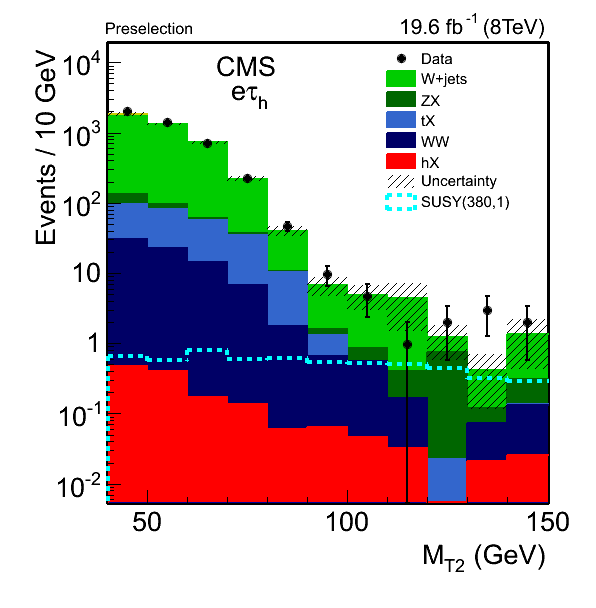
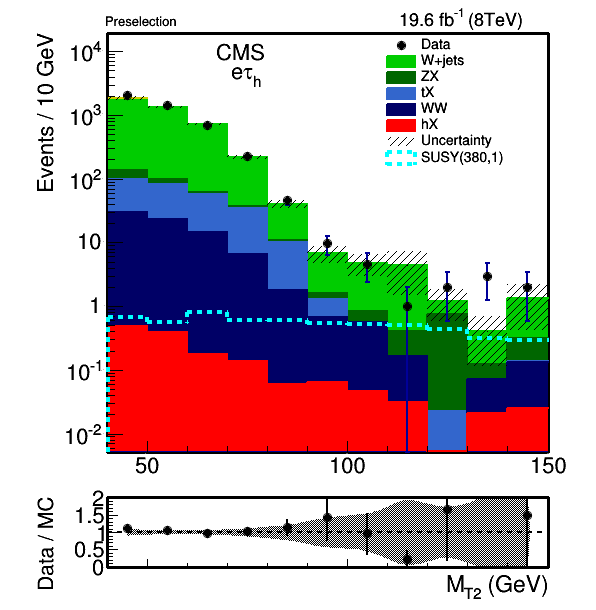
ratio plots are added to eleTau and muTau MT2 figures at preselection level (fig2). FR comments

diff --git a/papers/SUS-14-022/trunk/SelectionMuTau/MT2_mutau.C b/papers/SUS-14-022/trunk/SelectionMuTau/MT2_mutau.C
@@ -3,22 +3,42 @@
 //=========  (Mon Jul 18 15:03:36 2016) by ROOT version5.34/03
    TCanvas *MT2_Ratio_Preselection_unBlinded = new TCanvas("MT2_Ratio_Preselection_unBlinded", "",294,136,600,634);
    gStyle->SetOptFit(1);
-   MT2_Ratio_Preselection_unBlinded->Range(13.31066,-3.83404,161.9728,5.159975);
-   MT2_Ratio_Preselection_unBlinded->SetFillColor(0);
-   MT2_Ratio_Preselection_unBlinded->SetBorderMode(0);
-   MT2_Ratio_Preselection_unBlinded->SetBorderSize(2);
-   MT2_Ratio_Preselection_unBlinded->SetLogy();
-   MT2_Ratio_Preselection_unBlinded->SetLeftMargin(0.1795302);
-   MT2_Ratio_Preselection_unBlinded->SetRightMargin(0.08053691);
-   MT2_Ratio_Preselection_unBlinded->SetTopMargin(0.06976745);
-   MT2_Ratio_Preselection_unBlinded->SetBottomMargin(0.1710963);
-   MT2_Ratio_Preselection_unBlinded->SetFrameLineWidth(3);
-   MT2_Ratio_Preselection_unBlinded->SetFrameBorderMode(0);
-   MT2_Ratio_Preselection_unBlinded->SetFrameBorderSize(0);
-   MT2_Ratio_Preselection_unBlinded->SetFrameLineWidth(3);
-   MT2_Ratio_Preselection_unBlinded->SetFrameBorderMode(0);
-   MT2_Ratio_Preselection_unBlinded->SetFrameBorderSize(0);
-   
+   // MT2_Ratio_Preselection_unBlinded->Range(13.31066,-3.83404,161.9728,5.159975);
+   // MT2_Ratio_Preselection_unBlinded->SetFillColor(0);
+   // MT2_Ratio_Preselection_unBlinded->SetBorderMode(0);
+   // MT2_Ratio_Preselection_unBlinded->SetBorderSize(2);
+   // MT2_Ratio_Preselection_unBlinded->SetLogy();
+   // MT2_Ratio_Preselection_unBlinded->SetLeftMargin(0.1795302);
+   // MT2_Ratio_Preselection_unBlinded->SetRightMargin(0.08053691);
+   // MT2_Ratio_Preselection_unBlinded->SetTopMargin(0.06976745);
+   // MT2_Ratio_Preselection_unBlinded->SetBottomMargin(0.1710963);
+   // MT2_Ratio_Preselection_unBlinded->SetFrameLineWidth(3);
+   // MT2_Ratio_Preselection_unBlinded->SetFrameBorderMode(0);
+   // MT2_Ratio_Preselection_unBlinded->SetFrameBorderSize(0);
+   // MT2_Ratio_Preselection_unBlinded->SetFrameLineWidth(3);
+   // MT2_Ratio_Preselection_unBlinded->SetFrameBorderMode(0);
+   // MT2_Ratio_Preselection_unBlinded->SetFrameBorderSize(0);
+
+   // ------------>Primitives in pad: muTau_log_comp_overlay_plotpad
+   TPad *muTau_log_comp_overlay_plotpad = new TPad("muTau_log_comp_overlay_plotpad", "Pad containing the overlay plot",0,0.22,1,1);
+   muTau_log_comp_overlay_plotpad->Draw();
+   muTau_log_comp_overlay_plotpad->cd();
+   muTau_log_comp_overlay_plotpad->Range(13.31066,-3.83404,161.9728,5.159975);
+   muTau_log_comp_overlay_plotpad->SetFillColor(0);
+   muTau_log_comp_overlay_plotpad->SetBorderMode(0);
+   muTau_log_comp_overlay_plotpad->SetBorderSize(2);
+   muTau_log_comp_overlay_plotpad->SetLogy();
+   muTau_log_comp_overlay_plotpad->SetLeftMargin(0.1795302);
+   muTau_log_comp_overlay_plotpad->SetRightMargin(0.08053691);
+   muTau_log_comp_overlay_plotpad->SetTopMargin(0.06976745);
+   muTau_log_comp_overlay_plotpad->SetBottomMargin(0.05) ; //0.1710963);
+   muTau_log_comp_overlay_plotpad->SetFrameLineWidth(3);
+   muTau_log_comp_overlay_plotpad->SetFrameBorderMode(0);
+   muTau_log_comp_overlay_plotpad->SetFrameBorderSize(0);
+   muTau_log_comp_overlay_plotpad->SetFrameLineWidth(3);
+   muTau_log_comp_overlay_plotpad->SetFrameBorderMode(0);
+   muTau_log_comp_overlay_plotpad->SetFrameBorderSize(0);
+    
    THStack *h_stack = new THStack();
    h_stack->SetName("h_stack");
    h_stack->SetTitle("");
@@ -35,7 +55,7 @@
    ci = TColor::GetColor("#000099");
    h_stack_stack_1_stack_2_stack_1_stack_1_stack_1_stack_1_stack_1_stack_1_stack_1_stack_1->SetLineColor(ci);
    h_stack_stack_1_stack_2_stack_1_stack_1_stack_1_stack_1_stack_1_stack_1_stack_1_stack_1->SetLineWidth(2);
-   h_stack_stack_1_stack_2_stack_1_stack_1_stack_1_stack_1_stack_1_stack_1_stack_1_stack_1->GetXaxis()->SetTitle("M_{T2} (GeV)");
+   h_stack_stack_1_stack_2_stack_1_stack_1_stack_1_stack_1_stack_1_stack_1_stack_1_stack_1->GetXaxis()->SetTitle(); //"M_{T2} (GeV)");
    h_stack_stack_1_stack_2_stack_1_stack_1_stack_1_stack_1_stack_1_stack_1_stack_1_stack_1->GetXaxis()->SetNdivisions(505);
    h_stack_stack_1_stack_2_stack_1_stack_1_stack_1_stack_1_stack_1_stack_1_stack_1_stack_1->GetXaxis()->SetLabelFont(42);
    h_stack_stack_1_stack_2_stack_1_stack_1_stack_1_stack_1_stack_1_stack_1_stack_1_stack_1->GetXaxis()->SetLabelSize(0.05);
@@ -421,8 +441,8 @@
    h2_copy->SetEntries(7513);
    h2_copy->SetStats(0);
 
-   ci = TColor::GetColor("#000099");
-   h2_copy->SetLineColor(ci);
+   //ci = kColor;
+   h2_copy->SetLineColor(kBlack);
    h2_copy->SetLineWidth(2);
    h2_copy->SetMarkerStyle(20);
    h2_copy->GetXaxis()->SetNdivisions(505);
@@ -604,6 +624,94 @@ tex->SetNDC();
    entry->SetMarkerStyle(21);
    entry->SetMarkerSize(1);
    leg->Draw();
+
+   MT2_Ratio_Preselection_unBlinded->cd();
+   TPad* muTau_log_comp_overlay_ratiopad = new TPad("muTau_log_comp_overlay_ratiopad", "Pad containing the ratio",0,0.0 , 1.0 , 0.2);
+   muTau_log_comp_overlay_ratiopad->Draw();
+   muTau_log_comp_overlay_ratiopad->cd();
+   
+   muTau_log_comp_overlay_ratiopad->Range(21.42008,-0.8571431,160.4254,2.214286);
+   muTau_log_comp_overlay_ratiopad->SetFillColor(0);
+   muTau_log_comp_overlay_ratiopad->SetBorderMode(0);
+   muTau_log_comp_overlay_ratiopad->SetBorderSize(2);
+   muTau_log_comp_overlay_ratiopad->SetLeftMargin(0.1795302);
+   muTau_log_comp_overlay_ratiopad->SetRightMargin(0.08053691);
+   muTau_log_comp_overlay_ratiopad->SetTopMargin(0.08) ; //6976745);
+   muTau_log_comp_overlay_ratiopad->SetBottomMargin(0.35 );//1710963);
+   muTau_log_comp_overlay_ratiopad->SetFrameLineWidth(3);
+   muTau_log_comp_overlay_ratiopad->SetFrameBorderMode(0);
+   muTau_log_comp_overlay_ratiopad->SetFrameBorderSize(0);
+   muTau_log_comp_overlay_ratiopad->SetFrameLineWidth(3);
+   muTau_log_comp_overlay_ratiopad->SetFrameBorderMode(0);
+   muTau_log_comp_overlay_ratiopad->SetFrameBorderSize(0);
+
+   TH1D* hOne = h_stack->GetStack()->Last()->Clone("hOne");
+   //hOne->Sumw2();
+   TH1D *hMC = h_stack->GetStack()->Last()->Clone("hMC");
+   hOne->Divide( hMC );
+   hOne->SetMinimum(0);
+   hOne->SetMaximum(2);
+   //hOne->SetEntries(31.4133);
+   hOne->SetStats(0);
+   hOne->SetFillColor(1);
+   hOne->SetFillStyle(3001);
+   hOne->SetLineWidth(2);
+   hOne->SetLineColor( kBlack );
+   hOne->SetMarkerColor( kBlack );
+   hOne->GetXaxis()->SetTitle("M_{T2} (GeV)");
+   hOne->GetXaxis()->SetNdivisions(505);
+   hOne->GetXaxis()->SetLabelFont(42);
+   hOne->GetXaxis()->SetLabelSize(0);
+   hOne->GetXaxis()->SetTitleSize(0.2);
+   hOne->GetXaxis()->SetTickLength(0.09);
+   hOne->GetXaxis()->SetTitleOffset(0.5);
+   hOne->GetXaxis()->SetTitleFont(42);
+   hOne->GetYaxis()->SetTitle("Data / MC");
+   hOne->GetYaxis()->SetNdivisions(509);
+   hOne->GetYaxis()->SetLabelFont(42);
+   hOne->GetYaxis()->SetLabelSize(0.19);
+   hOne->GetYaxis()->SetTitleSize(0.18);
+   hOne->GetYaxis()->SetTitleOffset(0.36);
+   hOne->GetYaxis()->SetTitleFont(42);
+   hOne->GetZaxis()->SetLabelFont(42);
+   hOne->GetZaxis()->SetLabelSize(0.035);
+   hOne->GetZaxis()->SetTitleSize(0.035);
+   hOne->GetZaxis()->SetTitleFont(42);
+   hOne->Draw("E6");
+
+   
+   TH1D *hRatio = h2_copy->Clone("hDataOverMC");
+   hRatio->Divide( hMC );
+   hRatio->SetMinimum(0);
+   hRatio->SetMaximum(2);
+   hRatio->SetDirectory(0);
+   hRatio->SetStats(0);
+   hRatio->SetLineWidth(2);
+   hRatio->SetLineColor(kBlack);
+   hRatio->SetMarkerStyle(20);
+   hRatio->GetXaxis()->SetNdivisions(505);
+   hRatio->GetXaxis()->SetLabelFont(42);
+   hRatio->GetXaxis()->SetLabelSize(0.07);
+   hRatio->GetXaxis()->SetTitleSize(0.07);
+   hRatio->GetXaxis()->SetTitleOffset(1.1);
+   hRatio->GetXaxis()->SetTitleFont(42);
+   hRatio->GetYaxis()->SetNdivisions(505);
+   hRatio->GetYaxis()->SetLabelFont(42);
+   hRatio->GetYaxis()->SetLabelSize(0.07);
+   hRatio->GetYaxis()->SetTitleSize(0.07);
+   hRatio->GetYaxis()->SetTitleOffset(1.3);
+   hRatio->GetYaxis()->SetTitleFont(42);
+   hRatio->GetZaxis()->SetLabelFont(42);
+   hRatio->GetZaxis()->SetLabelSize(0.035);
+   hRatio->GetZaxis()->SetTitleSize(0.035);
+   hRatio->GetZaxis()->SetTitleFont(42);
+   hRatio->Draw("Esame");
+
+   TLine *line = new TLine(40,1,150,1);
+   line->SetLineStyle(7);
+   line->SetLineWidth(2);
+   line->Draw();
+   
    MT2_Ratio_Preselection_unBlinded->Modified();
    MT2_Ratio_Preselection_unBlinded->cd();
    MT2_Ratio_Preselection_unBlinded->SetSelected(MT2_Ratio_Preselection_unBlinded);

diff --git a/papers/SUS-14-022/trunk/SelectionEleTau/MT2_eletau.C b/papers/SUS-14-022/trunk/SelectionEleTau/MT2_eletau.C
@@ -5,21 +5,25 @@
    gStyle->SetOptFit(1);
    gROOT->SetEditHistograms();
    MT2->SetHighLightColor(2);
-   MT2->Range(13.31066,-3.763505,161.9728,4.894268);
-   MT2->SetFillColor(0);
-   MT2->SetBorderMode(0);
-   MT2->SetBorderSize(2);
-   MT2->SetLogy();
-   MT2->SetLeftMargin(0.1795302);
-   MT2->SetRightMargin(0.08053691);
-   MT2->SetTopMargin(0.06976745);
-   MT2->SetBottomMargin(0.1710963);
-   MT2->SetFrameLineWidth(3);
-   MT2->SetFrameBorderMode(0);
-   MT2->SetFrameBorderSize(0);
-   MT2->SetFrameLineWidth(3);
-   MT2->SetFrameBorderMode(0);
-   MT2->SetFrameBorderSize(0);
+   
+   TPad *MT2EleTau = new TPad("MT2EleTau", "Pad containing the overlay plot",0,0.22,1,1);
+   MT2EleTau->Draw();
+   MT2EleTau->cd();
+   MT2EleTau->Range(13.31066,-3.763505,161.9728,4.894268);
+   MT2EleTau->SetFillColor(0);
+   MT2EleTau->SetBorderMode(0);
+   MT2EleTau->SetBorderSize(2);
+   MT2EleTau->SetLogy();
+   MT2EleTau->SetLeftMargin(0.1795302);
+   MT2EleTau->SetRightMargin(0.08053691);
+   MT2EleTau->SetTopMargin(0.06976745);
+   MT2EleTau->SetBottomMargin(0.05);
+   MT2EleTau->SetFrameLineWidth(3);
+   MT2EleTau->SetFrameBorderMode(0);
+   MT2EleTau->SetFrameBorderSize(0);
+   MT2EleTau->SetFrameLineWidth(3);
+   MT2EleTau->SetFrameBorderMode(0);
+   MT2EleTau->SetFrameBorderSize(0);
    
    THStack *MT2PreCut_MT2 = new THStack();
    MT2PreCut_MT2->SetName("MT2PreCut_MT2");
@@ -38,7 +42,7 @@
    MT2PreCut_MT2_stack_2_stack_1_stack_1_stack_1_stack_1_stack_1_stack_1_stack_1_stack_1->SetLineColor(ci);
    MT2PreCut_MT2_stack_2_stack_1_stack_1_stack_1_stack_1_stack_1_stack_1_stack_1_stack_1->SetLineWidth(2);
    MT2PreCut_MT2_stack_2_stack_1_stack_1_stack_1_stack_1_stack_1_stack_1_stack_1_stack_1->SetMarkerSize(2);
-   MT2PreCut_MT2_stack_2_stack_1_stack_1_stack_1_stack_1_stack_1_stack_1_stack_1_stack_1->GetXaxis()->SetTitle("M_{T2} (GeV)");
+   //MT2PreCut_MT2_stack_2_stack_1_stack_1_stack_1_stack_1_stack_1_stack_1_stack_1_stack_1->GetXaxis()->SetTitle("M_{T2} (GeV)");
    MT2PreCut_MT2_stack_2_stack_1_stack_1_stack_1_stack_1_stack_1_stack_1_stack_1_stack_1->GetXaxis()->SetNdivisions(505);
    MT2PreCut_MT2_stack_2_stack_1_stack_1_stack_1_stack_1_stack_1_stack_1_stack_1_stack_1->GetXaxis()->SetLabelFont(42);
    MT2PreCut_MT2_stack_2_stack_1_stack_1_stack_1_stack_1_stack_1_stack_1_stack_1_stack_1->GetXaxis()->SetLabelSize(0.05);
@@ -618,6 +622,95 @@ tex->SetNDC();
    entry->SetMarkerStyle(21);
    entry->SetMarkerSize(1);
    leg->Draw();
+
+   MT2->cd();
+   TPad* MT2RatioEleTau = new TPad("MT2RatioEleTau", "Pad containing the ratio",0,0.0 , 1.0 , 0.2);
+   MT2RatioEleTau->Draw();
+   MT2RatioEleTau->cd();
+   
+   MT2RatioEleTau->Range(21.42008,-0.8571431,160.4254,2.214286);
+   MT2RatioEleTau->SetFillColor(0);
+   MT2RatioEleTau->SetBorderMode(0);
+   MT2RatioEleTau->SetBorderSize(2);
+   MT2RatioEleTau->SetLeftMargin(0.1795302);
+   MT2RatioEleTau->SetRightMargin(0.08053691);
+   MT2RatioEleTau->SetTopMargin(0.08) ; //6976745);
+   MT2RatioEleTau->SetBottomMargin(0.35 );//1710963);
+   MT2RatioEleTau->SetFrameLineWidth(3);
+   MT2RatioEleTau->SetFrameBorderMode(0);
+   MT2RatioEleTau->SetFrameBorderSize(0);
+   MT2RatioEleTau->SetFrameLineWidth(3);
+   MT2RatioEleTau->SetFrameBorderMode(0);
+   MT2RatioEleTau->SetFrameBorderSize(0);
+
+   TH1D* hOne = MT2PreCut_MT2->GetStack()->Last()->Clone("hOne");
+   //hOne->Sumw2();
+   TH1D *hMC = MT2PreCut_MT2->GetStack()->Last()->Clone("hMC");
+   hOne->Divide( hMC );
+   hOne->SetMinimum(0);
+   hOne->SetMaximum(2);
+   //hOne->SetEntries(31.4133);
+   hOne->SetStats(0);
+   hOne->SetFillColor(1);
+   hOne->SetFillStyle(3001);
+   hOne->SetLineWidth(2);
+   hOne->SetLineColor( kBlack );
+   hOne->SetMarkerColor( kBlack );
+   hOne->GetXaxis()->SetTitle("M_{T2} (GeV)");
+   hOne->GetXaxis()->SetNdivisions(505);
+   hOne->GetXaxis()->SetLabelFont(42);
+   hOne->GetXaxis()->SetLabelSize(0);
+   hOne->GetXaxis()->SetTitleSize(0.2);
+   hOne->GetXaxis()->SetTickLength(0.09);
+   hOne->GetXaxis()->SetTitleOffset(0.5);
+   hOne->GetXaxis()->SetTitleFont(42);
+   hOne->GetYaxis()->SetTitle("Data / MC");
+   hOne->GetYaxis()->SetNdivisions(509);
+   hOne->GetYaxis()->SetLabelFont(42);
+   hOne->GetYaxis()->SetLabelSize(0.19);
+   hOne->GetYaxis()->SetTitleSize(0.18);
+   hOne->GetYaxis()->SetTitleOffset(0.36);
+   hOne->GetYaxis()->SetTitleFont(42);
+   hOne->GetZaxis()->SetLabelFont(42);
+   hOne->GetZaxis()->SetLabelSize(0.035);
+   hOne->GetZaxis()->SetTitleSize(0.035);
+   hOne->GetZaxis()->SetTitleFont(42);
+   hOne->Draw("E6");
+
+   
+   TH1D *hRatio = h2_copy19__7->Clone("hDataOverMC");
+   hRatio->Divide( hMC );
+   hRatio->SetMinimum(0);
+   hRatio->SetMaximum(2);
+   hRatio->SetDirectory(0);
+   hRatio->SetStats(0);
+   hRatio->SetLineWidth(2);
+   hRatio->SetLineColor(kBlack);
+   hRatio->SetMarkerStyle(20);
+   hRatio->GetXaxis()->SetNdivisions(505);
+   hRatio->GetXaxis()->SetLabelFont(42);
+   hRatio->GetXaxis()->SetLabelSize(0.07);
+   hRatio->GetXaxis()->SetTitleSize(0.07);
+   hRatio->GetXaxis()->SetTitleOffset(1.1);
+   hRatio->GetXaxis()->SetTitleFont(42);
+   hRatio->GetYaxis()->SetNdivisions(505);
+   hRatio->GetYaxis()->SetLabelFont(42);
+   hRatio->GetYaxis()->SetLabelSize(0.07);
+   hRatio->GetYaxis()->SetTitleSize(0.07);
+   hRatio->GetYaxis()->SetTitleOffset(1.3);
+   hRatio->GetYaxis()->SetTitleFont(42);
+   hRatio->GetZaxis()->SetLabelFont(42);
+   hRatio->GetZaxis()->SetLabelSize(0.035);
+   hRatio->GetZaxis()->SetTitleSize(0.035);
+   hRatio->GetZaxis()->SetTitleFont(42);
+   hRatio->Draw("Esame");
+
+   TLine *line = new TLine(40,1,150,1);
+   line->SetLineStyle(7);
+   line->SetLineWidth(2);
+   line->Draw();
+
+   
    MT2->Modified();
    MT2->cd();
    MT2->SetSelected(MT2);
